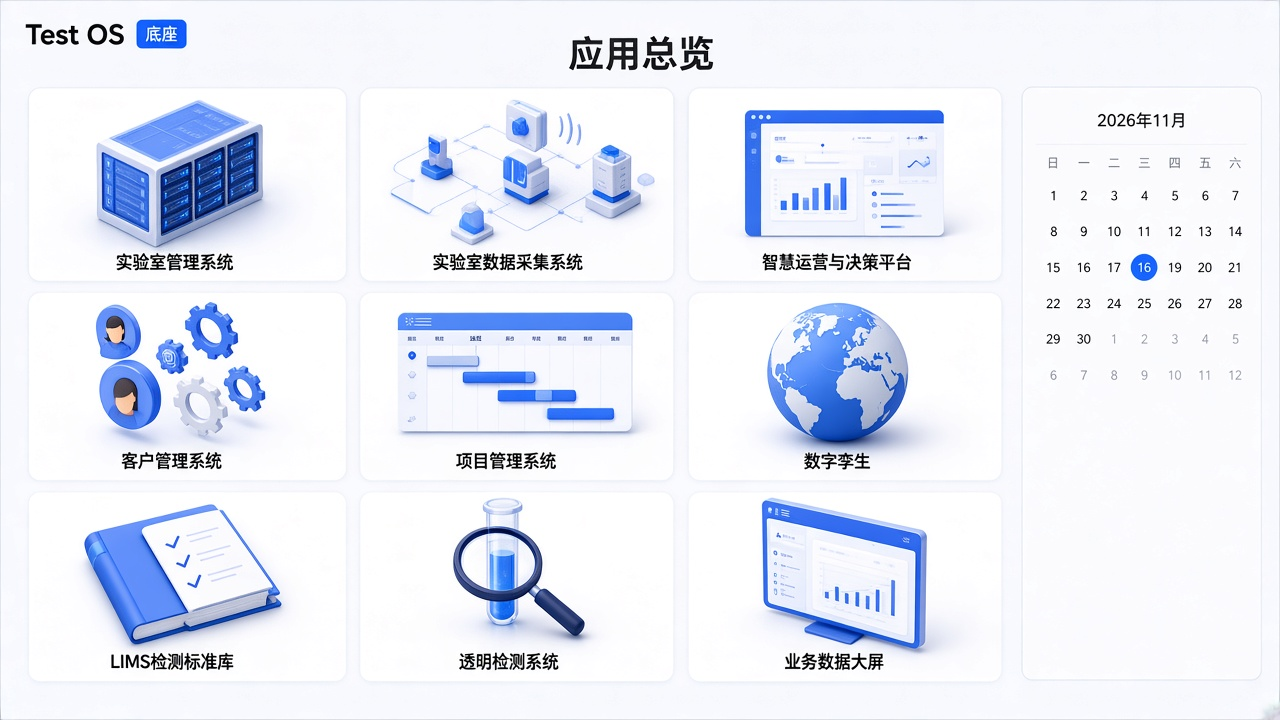
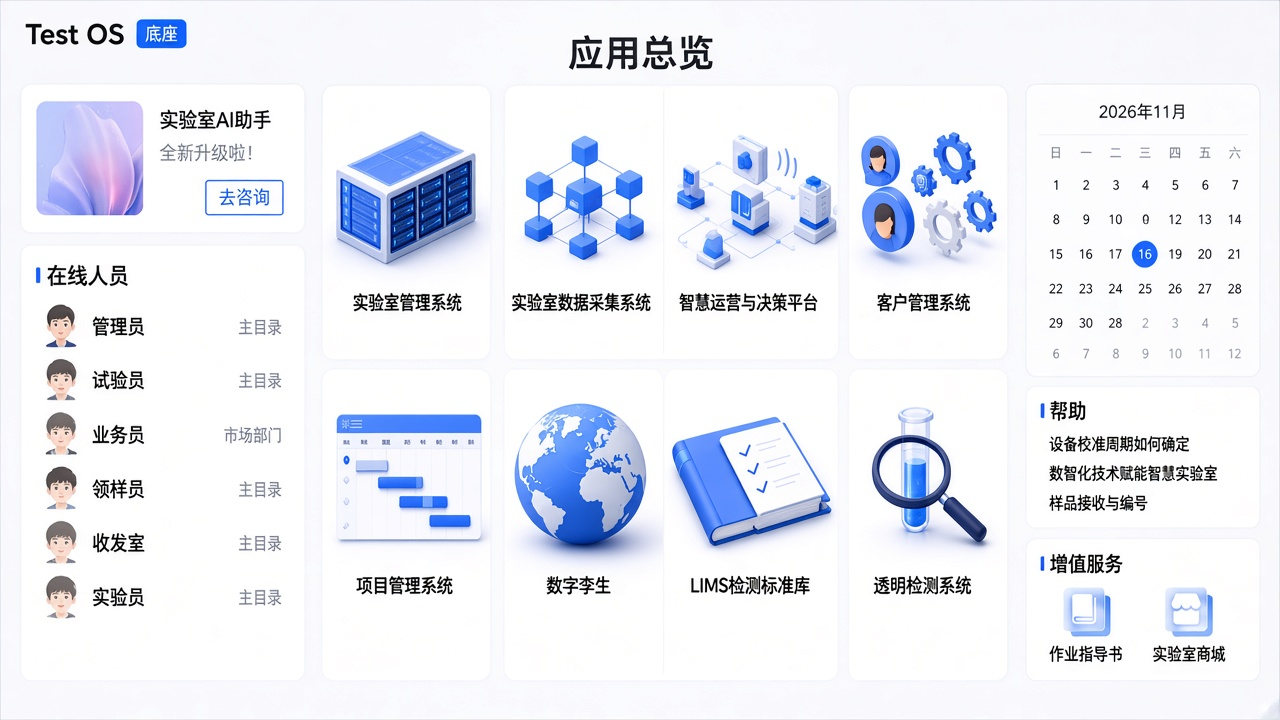
fix: 首页底座图补上侧栏并收进一屏
去掉业务数据大屏，左侧加上在线人员，日历下补帮助和增值服务。整张图缩小后，标题和底座图能在一屏里看完。

diff --git a/shucan-lims-brochure.html b/shucan-lims-brochure.html
@@ -128,10 +128,15 @@
       display: flex;
       flex-direction: column;
       justify-content: center;
-      gap: 22px;
+      gap: 14px;
+      height: calc(100dvh - var(--header-h));
+      min-height: 0;
+      padding: 8px 0 12px;
+      overflow: hidden;
     }
-    .hero-shot { margin: 0; }
-    .hero-shot img { width: 100%; display: block; border-radius: 16px; border: 1px solid var(--line); box-shadow: var(--shadow); background: #f4f7fc; }
+    .hero h1 { font-size: clamp(30px, 3.2vw, 42px); }
+    .hero-shot { margin: 0; flex: 1; min-height: 0; display: flex; align-items: center; }
+    .hero-shot img { width: 100%; max-height: 100%; object-fit: contain; display: block; border-radius: 16px; border: 1px solid var(--line); box-shadow: var(--shadow); background: #f4f7fc; }
     .value-list { display: grid; gap: 12px; }
     .value-item { display: grid; grid-template-columns: minmax(320px, 42%) 1fr; gap: 18px; align-items: start; }
     .value-item h3 { margin: 4px 0 0; font-size: 20px; }
@@ -175,7 +180,6 @@
     body.presenting .internal { display: none; }
 
     .block { padding: 28px 0 10px; }
-    .hero,
     #pain,
     .feat-page,
     #advantages > .adv-list > .card.adv,
@@ -594,7 +598,7 @@
       .nav a { flex: none; }
       section[id] { scroll-margin-top: 132px; }
       .top { align-items: flex-start; flex-wrap: wrap; }
-      .hero { padding-top: 32px; }
+      .hero { height: auto; overflow: visible; padding-top: 32px; }
     }
     @media (max-width: 640px) {
       .shot-grid { grid-template-columns: 1fr; }
@@ -602,7 +606,8 @@
     @media print {
       .top, .ghost, .skip { display: none !important; }
       body { background: #fff; }
-      .hero, #pain, .feat-page, #advantages > .adv-list > .card.adv, #advantages > .review, #advantages > .card.adv, #deploy, #value { min-height: 0; }
+      #pain, .feat-page, #advantages > .adv-list > .card.adv, #advantages > .review, #advantages > .card.adv, #deploy, #value { min-height: 0; }
+      .hero { height: auto; }
       .feat, .card, .adv, .review { break-inside: avoid; }
       a { text-decoration: none; color: inherit; }
     }
